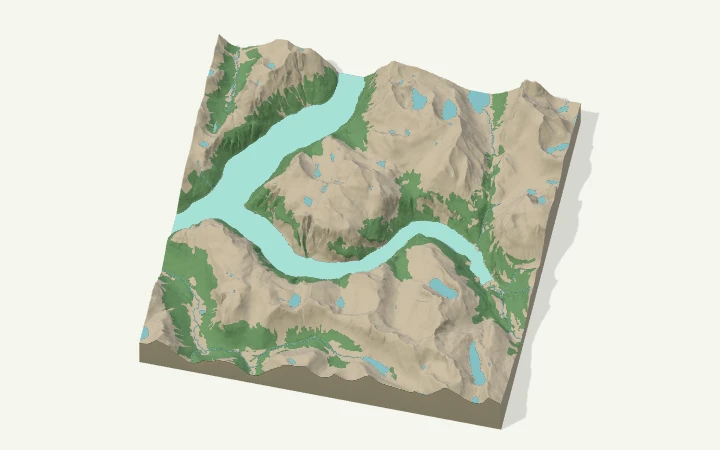
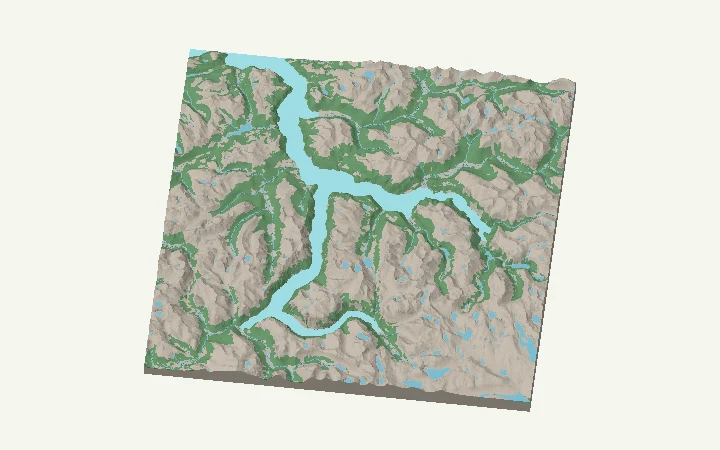
Actualitza el Fuji i Geiranger i reconcilia el cataleg

diff --git a/index.html b/index.html
@@ -244,7 +244,7 @@
       <path d="m27 9 7-6" stroke="var(--umbrella-accent)" stroke-width="4.5"/>
     </svg><span>ortogra<span class="umbrella-dot">.</span>fi</span>
   </a></p>
-  <div><a href="https://github.com/aaronFortuno/relleu-obert" target="_blank" rel="noreferrer" data-i18n-text="ui.footer.openSource"><svg class="repo-icon" viewBox="0 0 16 16" aria-hidden="true" focusable="false"><path d="M1 8h4m6 0h4"/><circle cx="8" cy="8" r="3"/></svg>Codi obert</a><a href="https://github.com/aaronFortuno/relleu-obert/blob/main/LICENSE" target="_blank" rel="noreferrer">MIT</a><button id="version-open" class="version-button" aria-label="Historial de versions">v0.23.21</button><button data-open="about-dialog" class="v4v-button" aria-label="Sobre el projecte · V4V" data-i18n-aria="ui.footer.about"><span class="desktop-copy" data-i18n="ui.footer.aboutDesktop">♡ Sobre el projecte · V4V</span><span class="mobile-copy">V4V</span></button></div>
+  <div><a href="https://github.com/aaronFortuno/relleu-obert" target="_blank" rel="noreferrer" data-i18n-text="ui.footer.openSource"><svg class="repo-icon" viewBox="0 0 16 16" aria-hidden="true" focusable="false"><path d="M1 8h4m6 0h4"/><circle cx="8" cy="8" r="3"/></svg>Codi obert</a><a href="https://github.com/aaronFortuno/relleu-obert/blob/main/LICENSE" target="_blank" rel="noreferrer">MIT</a><button id="version-open" class="version-button" aria-label="Historial de versions">v0.23.22</button><button data-open="about-dialog" class="v4v-button" aria-label="Sobre el projecte · V4V" data-i18n-aria="ui.footer.about"><span class="desktop-copy" data-i18n="ui.footer.aboutDesktop">♡ Sobre el projecte · V4V</span><span class="mobile-copy">V4V</span></button></div>
 </footer>
 
 <dialog id="projects-dialog" aria-labelledby="projects-title">

diff --git a/src/curated-examples.js b/src/curated-examples.js
@@ -337,11 +337,12 @@ export const CURATED_EXAMPLES = [
     category: 'Fiord',
     landforms: ['coasts'],
     description: 'El braç de mar fins al poble de Geiranger, encaixat entre vessants escarpats.',
-    center: [62.11, 7.075],
+    center: [62.23524520463307, 7.120119931613523],
     width: 240,
     height: 240,
-    scale: 75000,
+    scale: 200000,
     rotation: 0,
+    exaggeration: 1.25,
     image: `${imageBase}geirangerfjord.webp`,
   },
   {
@@ -381,6 +382,7 @@ export const CURATED_EXAMPLES = [
     height: 250,
     scale: 100000,
     rotation: 0,
+    exaggeration: 1.25,
     image: `${imageBase}mont-fuji.webp`,
   },
   {

diff --git a/work/BACKLOG.md b/work/BACKLOG.md
@@ -1,6 +1,6 @@
 # Backlog actiu de Relleu Obert
 
-Actualitzat el **2026-11-07 · v0.23.21**. [Historial](HISTORIAL.md).
+Actualitzat el **2026-11-07 · v0.23.22**. [Historial](HISTORIAL.md).
 
 ## Ordre de treball
 
@@ -147,7 +147,7 @@ A escriptori, la cerca i el mapa queden sota la capçalera de Territori i els aj
 
 El [catàleg](RO-046-CATALEG.md) inclou 37 retalls, amb 25 fitxes de Relleu pur i 12 de Model complet. El carrusel inicial barreja l’ordre i reparteix els modes al llarg del bucle. «Galeria de maquetes» a la capçalera obre una graella amb el focus a la cerca i filtres per mode, mida i tipus de paisatge. «La teva maqueta» mostra el resum del lloc mentre el visor mostra el model corresponent. Queda revisar l’enquadrament, la llegibilitat i els temps de generació en ús, i comprovar el gruix de la base a les fitxes costaneres.
 
-Cap de Creus, Tamariu, Tenerife i Santorini validats. A la revisió inicial s’hi afegeixen les correccions de Roses, el Croscat, els dos retalls de l’Aneto i el Teide. [Cua de revisió](RO-046-CATALEG.md#revisió-per-a-maquetes-daula) · [Retalls de prova](RO-046-PROVES-RELLEU.md)
+Cap de Creus, Tamariu, Tenerife i Santorini validats. Al bloc de grans formes ja s’han incorporat els ajustos del Teide, el mont Fuji i Geirangerfjord. Queda tornar a comprovar els retalls ajustats. [Cua de revisió](RO-046-CATALEG.md#revisió-per-a-maquetes-daula) · [Retalls de prova](RO-046-PROVES-RELLEU.md)
 
 ### RO-047 — Precàrrega opcional de fonts alternatives
 

diff --git a/work/HISTORIAL.md b/work/HISTORIAL.md
@@ -2,6 +2,10 @@
 
 Actualitzat: 2026-11-07. Les entrades validades surten del [backlog actiu](BACKLOG.md), mantenint identificadors i evidència. Una incidència nova es pot reobrir sense renumerar-la.
 
+## v0.23.22 — Mont Fuji i Geirangerfjord
+
+RO-046 aplica l’exageració ×1,25 als dos retalls i el nou centre i escala de Geirangerfjord. Es recuperen els estats i enquadraments de la revisió anterior al Markdown. [Cua de revisió](RO-046-CATALEG.md#grans-formes-del-relleu)
+
 ## v0.23.21 — Accés a la galeria i relleu proper
 
 RO-046 incorpora els ajustos de Roses, el Croscat, els dos retalls de l’Aneto i el Teide. Tamariu, Tenerife i Santorini queden validats. Tamariu es pot tornar a provar a 1:15.000. La galeria queda a la capçalera i selecciona la cerca anterior en obrir-se. [Cua de revisió](RO-046-CATALEG.md#revisió-per-a-maquetes-daula)

diff --git a/CHANGELOG.md b/CHANGELOG.md
@@ -1,5 +1,9 @@
 # Canvis
 
+## v0.23.22 — 2026-11-07
+
+- El mont Fuji i Geirangerfjord tenen una exageració vertical de ×1,25. El fiord s’obre amb el retall revisat a 1:200.000.
+
 ## v0.23.21 — 2026-11-07
 
 - La galeria obre amb el focus a la cerca i selecciona el text existent. A mòbil, la capçalera en mostra només la icona. L’accés de Territori es retira.
